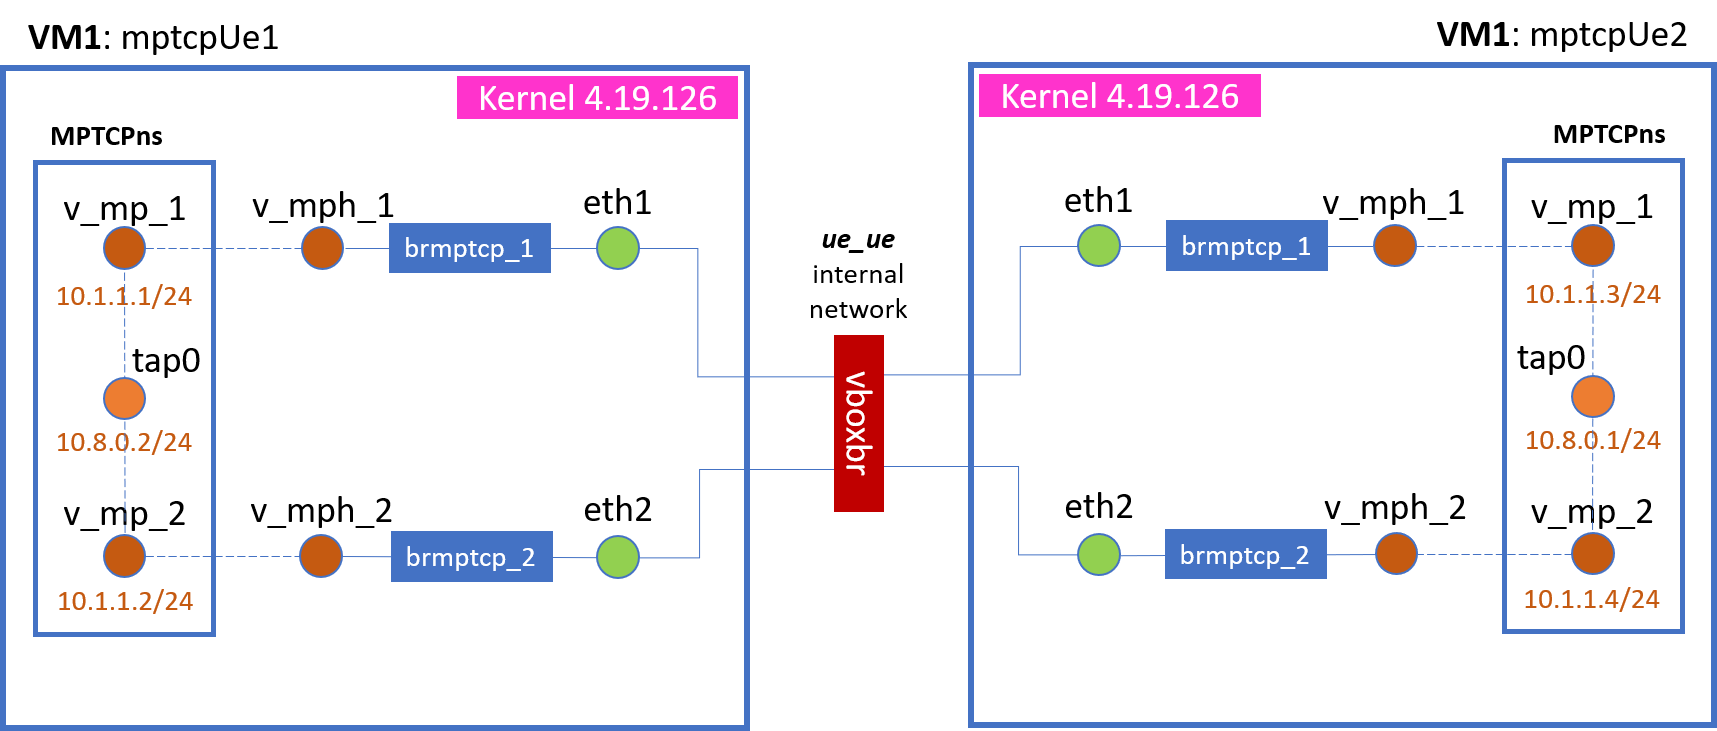
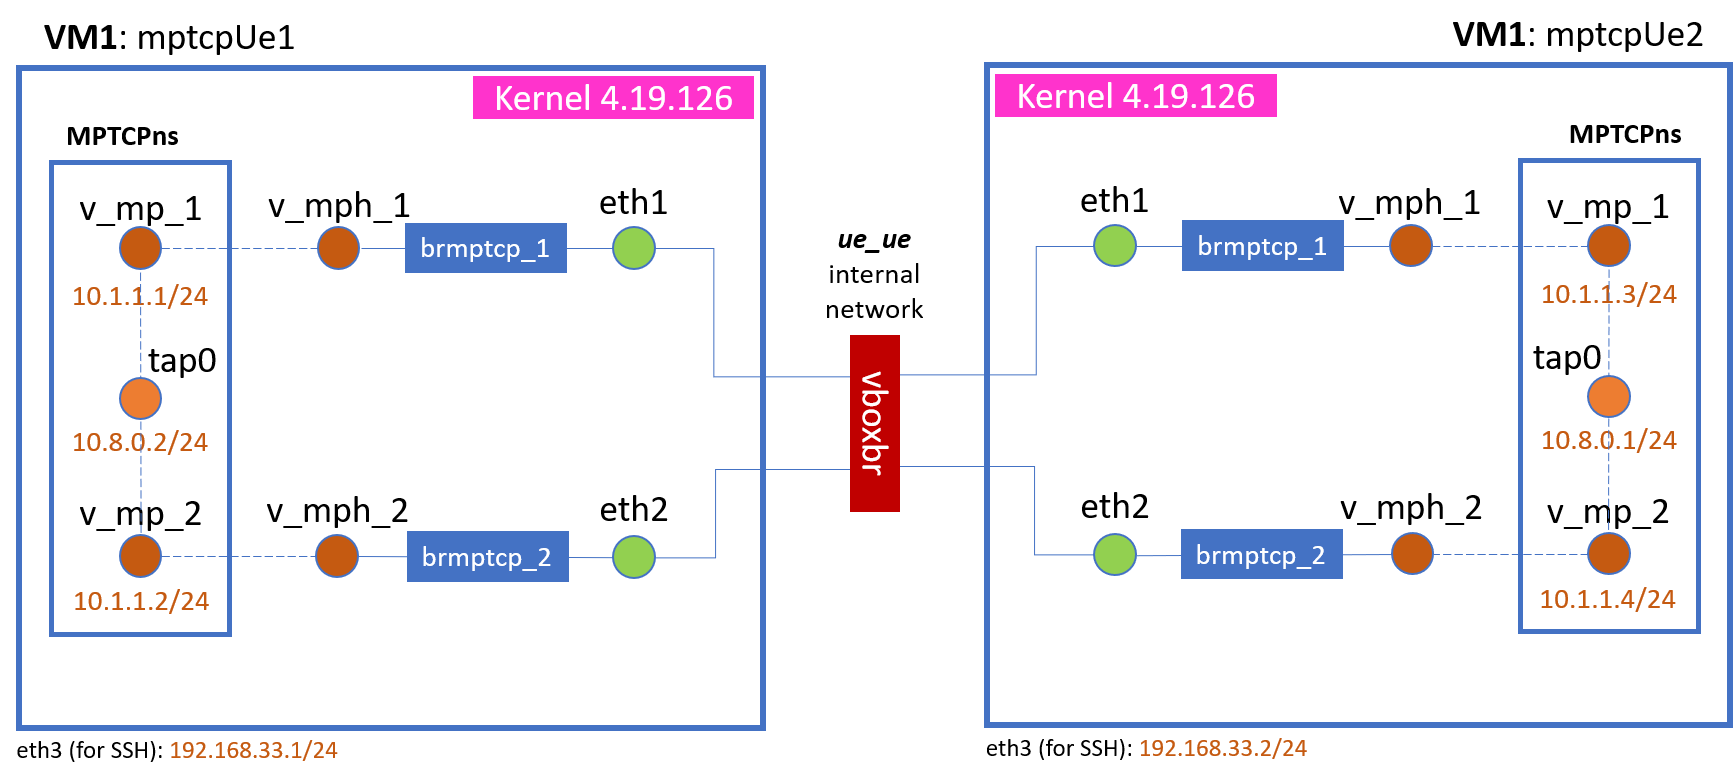
Initial commit
Initial commit

Changed region(s): [[0.0, 0.0301, 0.5248, 1.0], [0.5556, 0.0301, 1.0, 1.0]]

diff --git a/readme.md b/readme.md
@@ -1,6 +1,6 @@
-# 5G-CLARITY testbed v0 setup
+# 5GCLARITY testbed setup
 
-Testbed v0 (virtualized environment) for the 5G-CLARITY European Project. Initially started by Daniel Camps (from i2CAT). i2CAT's repository readme can be found below, after UGR's repository readme. Please contact Jorge Navarro-Ortiz (jorgenavarro@ugr.es) or Juan J. Ramos-Munoz (jjramos@ugr.es) for further details.
+UGR's branch from the original repository (i2CAT's free5gc repository). The master repository readme can be found below, after UGR's branch readme. Please contact Jorge Navarro-Ortiz (jorgenavarro@ugr.es) or Juan J. Ramos-Munoz (jjramos@ugr.es) for further details.
 
 ## Setting up the virtual environment
 
@@ -10,26 +10,33 @@ In order to simplify testing with MPTCP, we have developed two Vagrant configura
 
 2. Three VMs for the scenario explained in the master branch (**UE <-> free5GC <-> proxy**). Within this scenario, we also consider the two testbeds considered in the main branch: simple testbed and free5GC testbed.
 
-In both scenarios, a Vagrantfile has been developed to install the required kernel version, packages and the developed scripts, and will clone i2CAT's free5gc repository (master branch). So the deployed VMs should work out of the box. For details, please check the explanations in the master branch. **The developed installation scripts (see the `vagrant` directory) should work on real PCs (as long as they have Intel architecture, e.g. Intel's NUC computers) with few modifications**.
+In both scenarios, a Vagrantfile has been developed to install the required kernel version, packages and the developed scripts, and will clone i2CAT's free5gc repository (master branch). So the deployed VMs should work out of the box. For details, please check the explanations in the master branch. **The developed installation scripts** (see the `vagrant` directory) **should work on real PCs** (as long as they have Intel architecture, e.g. Intel's NUC computers) **with few modifications**.
 
 **Few differences with testbeds from the master branch**
 
 - All functions related to MPTCP are included in the kernel, i.e. there is no need to load modules.
 - **mptcpUe VM**: eth1 and eth2 are configured for using an internal network (ue_5gc) instead of using a bridged adapter. *The IP addresses of eth1 and eth2 are 10.1.1.1/24 and 10.1.1.2/24 instead of 10.0.1.1/24 and 10.0.1.2/24*. The reason is to avoid conflicts with eth0 (NAT interface, with IP 10.0.2.15/24) if we decide later to have eth1 and eth2 in different networks (which will become 10.0.1.0/24 and 10.0.2.0/24 in the original scenario). Additionally, *we added eth3 (with IP 192.168.33.1/24) to manage the VM through SSH*.
 - **free5gc VM**: Similarly, eth1 has IP address 10.1.1.*222*/24, instead of 10.0.1.$(( NUM_UES + 1)). This is done to avoid confusion when using a different number of UEs in the mptcpUe VM, which will produce a different IP address at the free5gc VM. Additionally, *we added eth3 (with IP 192.168.33.2/24) to manage the VM through SSH*.
-- **mptcpProxy VM**: *We only added eth3 (with IP 192.168.33.3/24) to manage the VM through SSH*.
+- **mptcpProxy VM**: *We only added eth2 (with IP 192.168.33.3/24) to manage the VM through SSH*.
+- As usual, all VMs employ eth0 for Internet connection (through VirtualBox's NAT).
 
-### SCENARIO 1: Two virtual machines directly connected
+### VMs installation using Vagrant for scenario 1
 
-In this scenario, two machines are directly connected using network interfaces eth1 and eth2. eth0 is configured with NAT in VirtualBox to connect to Internet. eth3 is configured with IP addresses 192.168.33.1/24 and 192.168.33.2/24 for management (for connecting through SSH). The image shows both VMs employing a network namespace (MPTCPns) and OpenVPN. You can configure whether namespaces or OpenVPN are used.
+Copy the content of the directory `free5gc/vagrant` to your computer. Rename the file `Vagrantfile.2machines` to `Vagrantfile`. **Copy your SSH credentials** for this repository (`id_rsa` and `id_rsa.pub` files) **to the `vagrant/ssh_credentials` directory**. Change to the directory with the `Vagrantfile` file and execute `vagrant up`. The execution will take around 15 minutes (depending on PC).
 
-<img src="https://github.com/jorgenavarroortiz/5g-clarity_testbed_v0/raw/main/img/mptcp_scenario1.png" width="512">
+### VMs installation using Vagrant for scenario 2
 
-**VMs installation using Vagrant**
+Copy the content of the directory `free5gc/vagrant` to your computer. Rename the file `Vagrantfile.free5gc` to `Vagrantfile`. **Copy your SSH credentials** for this repository (`id_rsa` and `id_rsa.pub` files) **to the `vagrant/ssh_credentials` directory**. Change to the directory with the `Vagrantfile` file and execute `vagrant up`. The execution will take around 25 minutes (depending on PC).
 
-Copy the content of the directory `free5gc/vagrant` to your computer. Rename the file `Vagrantfile.2machines` to `Vagrantfile`. Copy your SSH credentials for this repository (`id_rsa` and `id_rsa.pub` files) to the `vagrant/ssh_credentials` directory. Change to the directory with the `Vagrantfile` file and execute `vagrant up`. The execution will take around 15 minutes (depending on PC).
+**NOTE**: If you need to reconfigure your keyboard for your specific language, you can run `sudo dpkg-reconfigure keyboard-configuration` in the deployed VMs.
 
-**Launching scenario 1**
+## Launching SCENARIO 1: Two virtual machines directly connected
+
+In this scenario, two machines are directly connected using network interfaces eth1 and eth2. eth0 is configured with NAT in VirtualBox to connect to Internet. eth3 is configured with IP addresses 192.168.33.1/24 and 192.168.33.2/24 for management (for connecting through SSH). The image shows both VMs employing a network namespace (MPTCPns) and OpenVPN. You can configure whether namespaces or OpenVPN are used or not.
+
+<img src="https://bitbucket.i2cat.net/projects/SDWN/repos/free5gc/browse/img/mptcp_scenario1.png?at=refs%2Fheads%2Fugr_v01&raw=" width="800">
+
+**Launching scenario 1 (without namespace/OpenVPN)**
 
 To setup this scenario the following scripts have to be run in this order:
 
@@ -39,7 +46,7 @@ To setup this scenario the following scripts have to be run in this order:
 
 This will setup MPTCP properly in both VMs.
 
-<img src="https://github.com/jorgenavarroortiz/5g-clarity_testbed_v0/raw/main/img/mptcp_scenario1_set_MPTCP_parameters.png" width="800">
+<img src="https://bitbucket.i2cat.net/projects/SDWN/repos/free5gc/browse/img/mptcp_scenario1_set_MPTCP_parameters.png?at=refs%2Fheads%2Fugr_v01&raw=" width="1200">
 
 In order to test the correct behaviour of MPTCP, you can run `iperf` and check the throughput in each interface using `ifstat`. For this, you can use:
 
@@ -49,13 +56,13 @@ In order to test the correct behaviour of MPTCP, you can run `iperf` and check t
 
 You can see that there are data sent on both interfaces (`eth1` and `eth2`).
 
-<img src="https://github.com/jorgenavarroortiz/5g-clarity_testbed_v0/raw/main/img/mptcp_scenario1_test_throughput.png" width="800">
+<img src="https://bitbucket.i2cat.net/projects/SDWN/repos/free5gc/browse/img/mptcp_scenario1_test_throughput.png?at=refs%2Fheads%2Fugr_v01&raw=" width="1200">
 
 Additionally, you can check that each interface can be active (on), inactive (off) or used as backup (backup) on MPTCP. For that purpose, you can use the `change_interface_state.sh` script. In the following example, the test started with both interfaces as active, then 1) changing `eth2` to `backup` (so it would transfer data only if the other interface is inactive), next 2) changing `eth1` to `off` (so data was transferred using `eth2`), and finally 3) `eth1` becoming active again (so data was transferred only using `eth1`). Similarly, you can perform any other similar tests.
 
 **IMPORTANT**: The `backup` state is only used with the `default` scheduler. In the case of the `roundrobin` scheduler, `backup` is treated as `on` (i.e. the interface remains active).
 
-<img src="https://github.com/jorgenavarroortiz/5g-clarity_testbed_v0/raw/main/img/mptcp_scenario1_change_interfaces_state.png" width="800">
+<img src="https://bitbucket.i2cat.net/projects/SDWN/repos/free5gc/browse/img/mptcp_scenario1_change_interfaces_state.png?at=refs%2Fheads%2Fugr_v01&raw=" width="1200">
 
 **Launching scenario 1 with namespace MPTCPns and OpenVPN**
 
@@ -67,13 +74,41 @@ To use a namespace (`MTPCPns`) and OpenVPN in both VMs, you have to run:
 
 In order to perform some experiment, remember to use the namespace `MPTCPns` and its network interfaces. For simplicity, you can run `sudo ip netns exec MPTCPns bash`. In the namespace, you can check the network interfaces by executing `ifconfig` (you should have interfaces `v_mp_1` and `v_mp_2` for both MPTCP paths, with IP addresses 10.1.1.X/24, with X=1..4, and `tun0`, with IP address 10.8.0.1/24 on the server and 10.8.0.2/24 on the client).
 
-<img src="https://github.com/jorgenavarroortiz/5g-clarity_testbed_v0/raw/main/img/mptcp_scenario1_test_namespace_ovpn.png" width="512">
+<img src="https://bitbucket.i2cat.net/projects/SDWN/repos/free5gc/browse/img/mptcp_scenario1_test_namespace_ovpn.png?at=refs%2Fheads%2Fugr_v01&raw=" width="800">
 
+## Launching SCENARIO 2: UE <-> free5GC <-> proxy
 
-### SCENARIO 2: UE <-> free5GC <-> proxy
+In this scenario, a VM (mptcpUe) employs two network interfaces (`eth1` and `eth2`) emulating a computer with two wireless access technologies (WATs), e.g. Wi-Fi, Li-Fi or 5G NR. We assume that they are in bridge mode, i.e. connected to the same IP network. This VM is directly connected to a VM (free5gc) implementing the 5G core network. The connection is done through the N3IWF (Non-3GPP InterWorking Function) entity. Since we are employing MPTCP to simultaneously transfer data from both interfaces of mptcpUe VM, it is required that the other end also implements MPTCP. Due to the different kernel versions on both VMs (4.19.142 for MPTCP and 5.0.0-23 for free5GC), another VM (mptcpProxy) is also required. mptcpProxy implements MPTCP for this purpose.
+
+**NOTE**: If required, you can add more network interfaces to the mptcpUe VM to emulate more WATs, as long as the last one is configured for management (i.e. using 192.168.33.1/24). The scripts will utilize consecutive network interfaces starting from eth1, eth2, eth3, etcetera.
+
+**Launch scenario 2 without 5G core network**
+
+The following image shows the scenario.
+
+<img src="https://bitbucket.i2cat.net/projects/SDWN/repos/free5gc/browse/img/mptcp_scenario2_simple.png?at=refs%2Fheads%2Fugr_v01&raw=" width="1200">
+
+To setup this scenario the following scripts have to be run in this order:
+
+- **mptcpProxy**: change to the `$HOME/free5gc/mptcp_test` directory and run `./set_MPTCP_parameters.sh -p fullmesh -s default -c olia -g 60.60.0.102 -n 60.60.0 -f 101 -o server`.
+
+- **free5gc**: change to the `$HOME/go/src/free5gc/mptcp_test` directory and run `./configure_free5gc_simple.sh`.
+
+- **mptcpUe**: change to the `$HOME/go/src/free5gc/mptcp_test` directory and run `./set_MPTCP_parameters.sh -p fullmesh -s default -c olia -g 10.1.1.222 -n 10.1.1 -u 2 -f 1 -m -o client`.
+
+To test that MPTCP is working properly, run the following scripts:
+
+- **mptcpProxy**: Check that there is a `tap0` interface by running `ifconfig`. Change to the `$HOME/free5gc/mptcp_test` directory and run `./test_throughput_tcp_server.sh`.
+
+- **mptcpUe**: Enter into namespace MPTCPns by running `sudo ip netns exec MPTCPns bash`. Check that there is a `tap0` interface by running `ifconfig`. Then launch `./test_throughput_tcp_client.sh -c 10.8.0.1 & ifstat`. You can change the interfaces state by using the script `change_interface_state.sh`, e.g. `./change_interface_state.sh -i eth2 -s backup`, `./change_interface_state.sh -i eth1 -s off`, etcetera.
+
+**Launch scenario 2 with 5G core network**
+
+[**SCENARIO RUNNING FREE5GC: TO BE DONE AND WRITTEN**]
+
+## Tools
 
 [TO BE WRITTEN]
-
 
 ---
 
